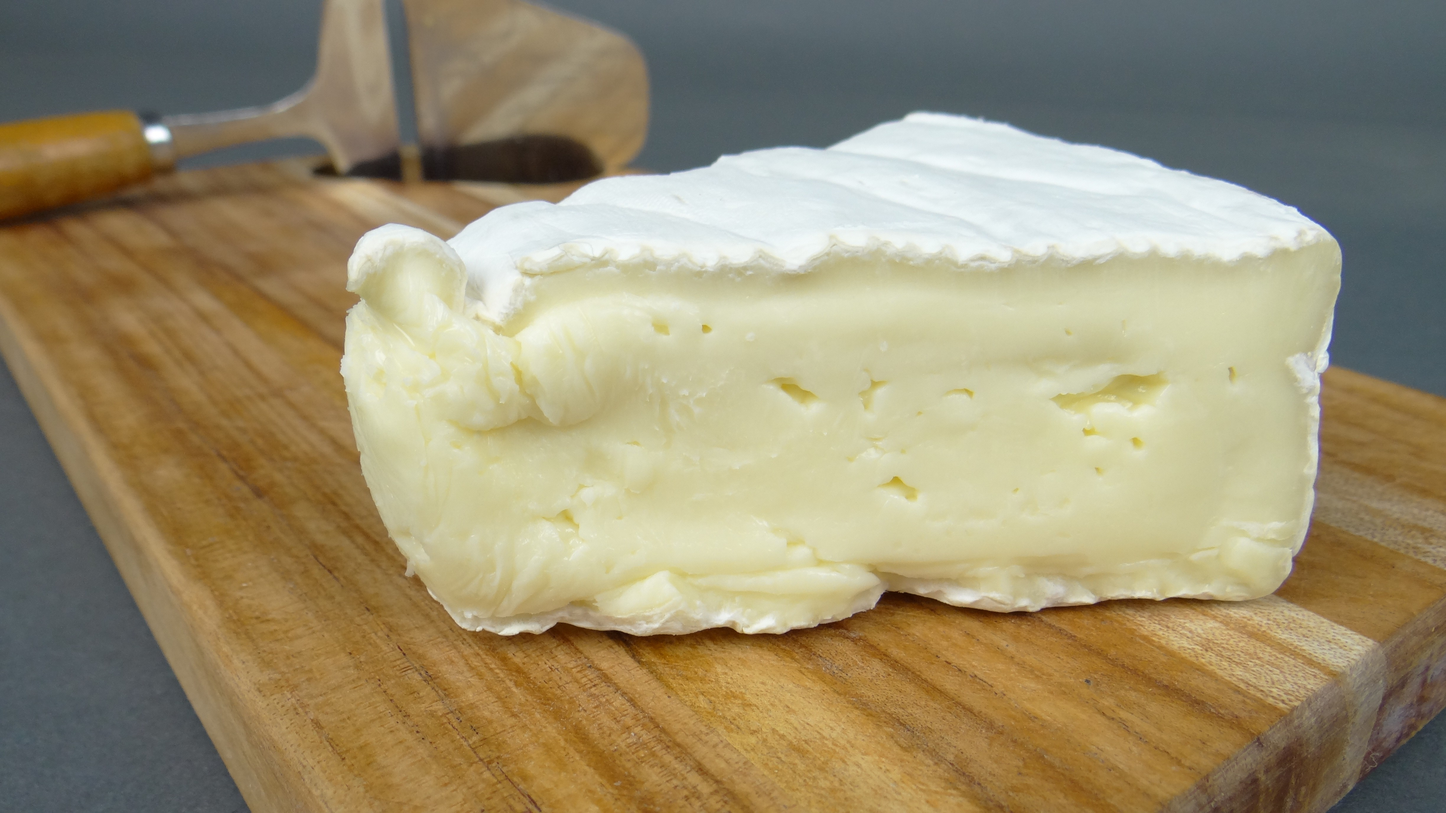
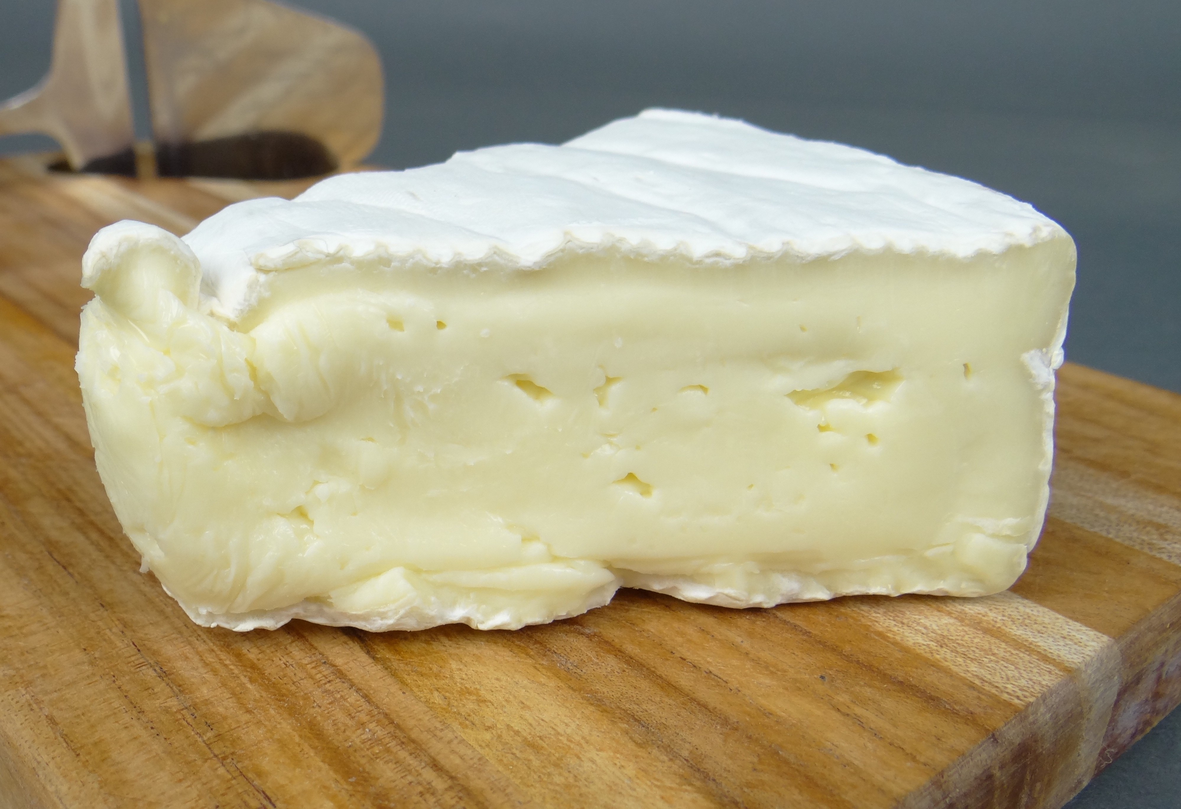
resized bloomy cheeses

diff --git a/src/App.css b/src/App.css
@@ -47,7 +47,7 @@ h5 {
 }
 
 .cheeseBox {
-  height: 290px;
+  min-height: 350px;
 }
 
 .cheeseBox img {
